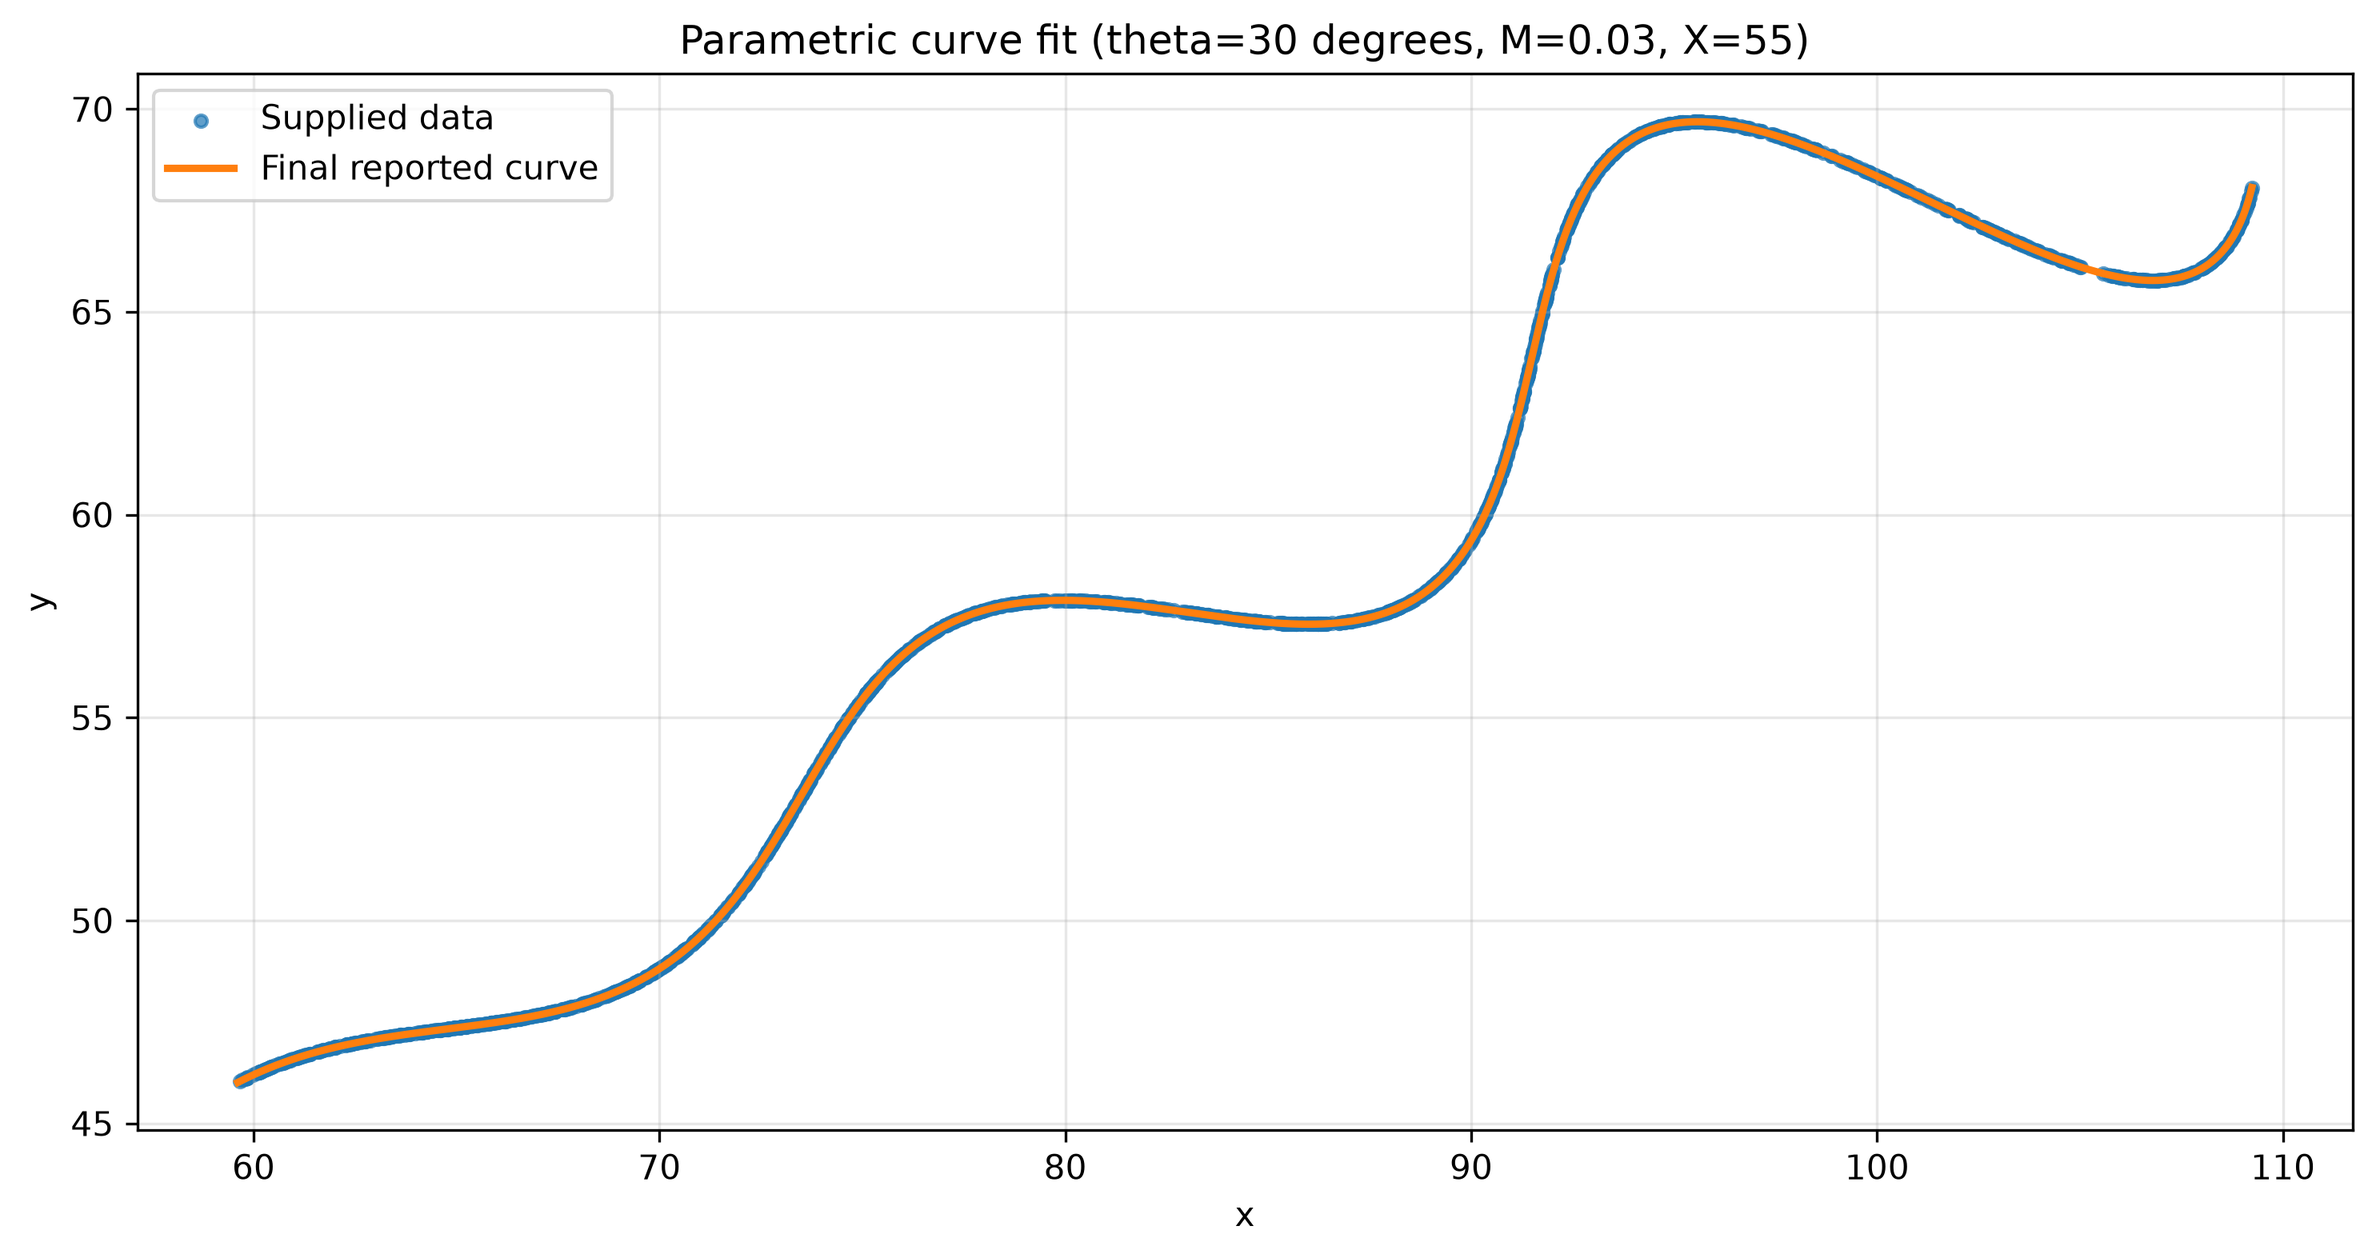
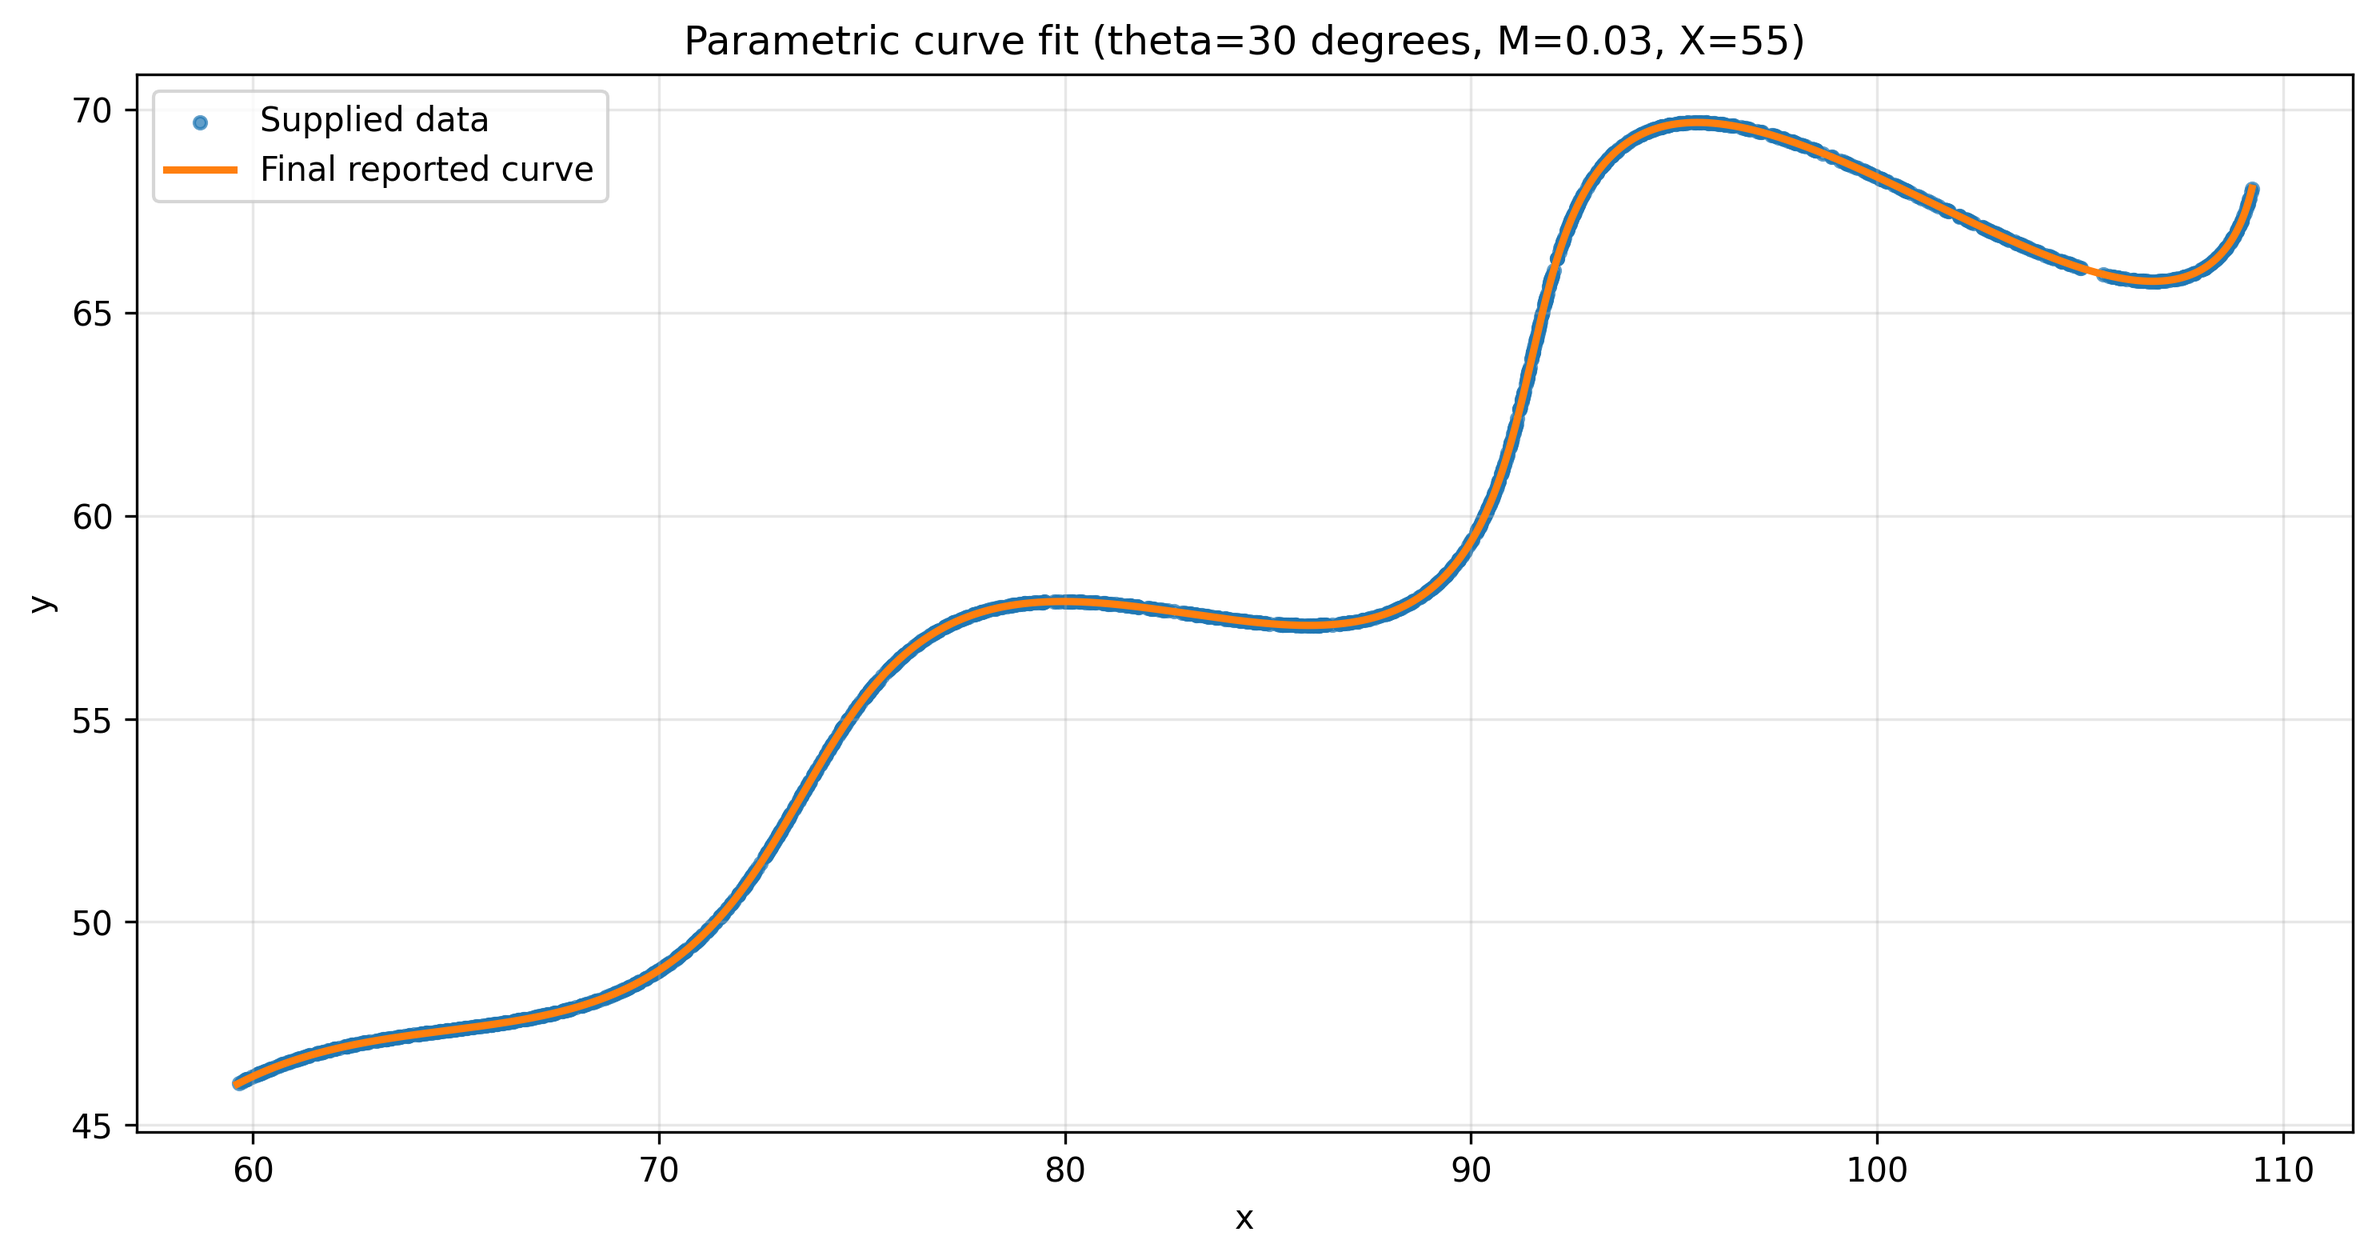
Implement closed-form t-recovery, rotation decoupling, and full metrics reporting

diff --git a/src/fit_curve.py b/src/fit_curve.py
@@ -10,7 +10,7 @@ import matplotlib
 matplotlib.use("Agg")
 import matplotlib.pyplot as plt
 import numpy as np
-from scipy.optimize import differential_evolution, minimize_scalar
+from scipy.optimize import differential_evolution, least_squares, minimize_scalar
 from scipy.spatial import cKDTree
 
 
@@ -42,54 +42,114 @@ def curve_points(theta_degrees: float, m: float, x_offset: float, n: int = N_CUR
     return curve_at_t(t, theta_degrees, m, x_offset)
 
 
-def mean_nearest_point_manhattan_distance(parameters: np.ndarray, data: np.ndarray) -> float:
-    """Mean nearest-point Manhattan/L1 distance, |dx| + |dy|, to a candidate curve."""
-    candidate_curve = curve_points(*parameters)
-    distances, _ = cKDTree(candidate_curve).query(data, p=1, workers=-1)
-    return float(np.mean(np.abs(distances)))
+def recover_t_and_residuals(parameters: np.ndarray | tuple[float, float, float], data: np.ndarray) -> tuple[np.ndarray, np.ndarray]:
+    """Algebraically decouple the 2D rotation and translation to recover t and orthogonal residuals.
+
+    Given:
+        [x - X ]   [ cos(theta) -sin(theta)] [       t      ]
+        [y - 42] = [ sin(theta)  cos(theta)] [ exp(M|t|)*sin(0.3t) ]
+
+    Inverting the rotation matrix yields:
+        u_i =  (x_i - X)*cos(theta) + (y_i - 42)*sin(theta)  = t_i
+        v_i = -(x_i - X)*sin(theta) + (y_i - 42)*cos(theta)  = exp(M|t_i|)*sin(0.3*t_i)
+    """
+    theta_deg, m, x_offset = parameters
+    theta = np.deg2rad(theta_deg)
+    cos_theta, sin_theta = np.cos(theta), np.sin(theta)
+
+    dx = data[:, 0] - x_offset
+    dy = data[:, 1] - 42.0
+
+    u = dx * cos_theta + dy * sin_theta
+    v = -dx * sin_theta + dy * cos_theta
+    v_pred = np.exp(m * np.abs(u)) * np.sin(0.3 * u)
+    residuals = v - v_pred
+    return u, residuals
+
+
+def closed_form_l1_loss(parameters: np.ndarray, data: np.ndarray) -> float:
+    """Mean L1 residual between actual and predicted transverse coordinate."""
+    _, residuals = recover_t_and_residuals(parameters, data)
+    return float(np.mean(np.abs(residuals)))
 
 
 def fit_parameters(data: np.ndarray) -> tuple[np.ndarray, float]:
-    """Use a global differential-evolution search over the supplied bounds."""
-    result = differential_evolution(
-        mean_nearest_point_manhattan_distance,
+    """Find parameters using closed-form rotation decoupling + differential evolution + least-squares polish."""
+    de_result = differential_evolution(
+        closed_form_l1_loss,
         bounds=BOUNDS,
         args=(data,),
         seed=2026,
         popsize=15,
-        maxiter=250,
-        tol=1e-8,
-        polish=True,
+        maxiter=300,
+        tol=1e-10,
         updating="immediate",
         workers=1,
     )
-    return result.x, float(result.fun)
+
+    lower_bounds = [b[0] for b in BOUNDS]
+    upper_bounds = [b[1] for b in BOUNDS]
+
+    def residual_func(p: np.ndarray) -> np.ndarray:
+        return recover_t_and_residuals(p, data)[1]
+
+    ls_result = least_squares(
+        residual_func,
+        x0=de_result.x,
+        bounds=(lower_bounds, upper_bounds),
+        ftol=1e-15,
+        xtol=1e-15,
+        gtol=1e-15,
+    )
+
+    final_loss = float(np.mean(np.abs(ls_result.fun)))
+    return ls_result.x, final_loss
 
 
-def validate_t_inversion(data: np.ndarray) -> tuple[float, float]:
-    """Invert t for every point using verified parameters and report reconstruction distances."""
-    coarse_t = np.linspace(T_MIN, T_MAX, 6_001)
-    coarse_curve = curve_at_t(coarse_t, *VERIFIED_PARAMETERS)
-    step = coarse_t[1] - coarse_t[0]
-    reconstruction_distances = []
+def validate_per_point_inversion(
+    data: np.ndarray, parameters: tuple[float, float, float] = VERIFIED_PARAMETERS
+) -> dict[str, float]:
+    """Perform independent continuous t-inversion validation for all points and report full error statistics."""
+    u_recovered, transverse_residuals = recover_t_and_residuals(parameters, data)
+    euclidean_distances = []
+    l1_distances = []
 
-    for point in data:
-        coarse_distances = np.linalg.norm(coarse_curve - point, axis=1)
-        best_index = int(np.argmin(coarse_distances))
-        lower = max(T_MIN, coarse_t[best_index] - step)
-        upper = min(T_MAX, coarse_t[best_index] + step)
+    for point, u_est in zip(data, u_recovered):
+        lower = max(T_MIN, float(u_est) - 0.5)
+        upper = min(T_MAX, float(u_est) + 0.5)
 
-        def distance_at_t(t: float) -> float:
-            return float(np.linalg.norm(curve_at_t(t, *VERIFIED_PARAMETERS)[0] - point))
+        def dist_euclidean(t: float) -> float:
+            p = curve_at_t(t, *parameters)[0]
+            return float(np.linalg.norm(p - point))
 
-        local_result = minimize_scalar(distance_at_t, bounds=(lower, upper), method="bounded")
-        reconstruction_distances.append(local_result.fun)
+        def dist_l1(t: float) -> float:
+            p = curve_at_t(t, *parameters)[0]
+            return float(np.sum(np.abs(p - point)))
 
-    distances = np.asarray(reconstruction_distances)
-    return float(np.mean(distances)), float(np.max(distances))
+        e_res = minimize_scalar(dist_euclidean, bounds=(lower, upper), method="bounded")
+        l_res = minimize_scalar(dist_l1, bounds=(lower, upper), method="bounded")
+
+        euclidean_distances.append(e_res.fun)
+        l1_distances.append(l_res.fun)
+
+    e_arr = np.asarray(euclidean_distances)
+    l1_arr = np.asarray(l1_distances)
+    t_arr = np.abs(transverse_residuals)
+
+    return {
+        "euclidean_mean": float(np.mean(e_arr)),
+        "euclidean_p95": float(np.percentile(e_arr, 95)),
+        "euclidean_max": float(np.max(e_arr)),
+        "l1_mean": float(np.mean(l1_arr)),
+        "l1_p95": float(np.percentile(l1_arr, 95)),
+        "l1_max": float(np.max(l1_arr)),
+        "transverse_mean": float(np.mean(t_arr)),
+        "transverse_p95": float(np.percentile(t_arr, 95)),
+        "transverse_max": float(np.max(t_arr)),
+    }
 
 
-def save_plot(data: np.ndarray, final_parameters: np.ndarray) -> None:
+def save_plot(data: np.ndarray, final_parameters: np.ndarray | tuple[float, float, float]) -> None:
     """Create a comparison of the source data and final reported curve."""
     fitted_curve = curve_points(*final_parameters)
     theta, m, x_offset = final_parameters
@@ -115,27 +175,35 @@ def main() -> None:
     if data.ndim != 2 or data.shape[1] != 2:
         raise ValueError(f"Expected two CSV columns (x, y), got shape {data.shape}.")
 
-    fitted_parameters, fitted_manhattan_distance = fit_parameters(data)
-    verified_manhattan_distance = mean_nearest_point_manhattan_distance(np.asarray(VERIFIED_PARAMETERS), data)
-    validation_mean, validation_maximum = validate_t_inversion(data)
+    fitted_parameters, fitted_loss = fit_parameters(data)
+    metrics = validate_per_point_inversion(data, VERIFIED_PARAMETERS)
 
-    print("Differential-evolution convergence evidence")
+    print("Differential-evolution & least-squares convergence evidence")
     print(f"  theta = {fitted_parameters[0]:.10f} degrees")
     print(f"  M     = {fitted_parameters[1]:.10f}")
     print(f"  X     = {fitted_parameters[2]:.10f}")
-    print(f"  mean nearest-point Manhattan/L1 distance ({N_CURVE_SAMPLES:,} curve samples) = {fitted_manhattan_distance:.10e}")
+    print(f"  closed-form mean L1 residual = {fitted_loss:.10e}")
     print()
     print("Final reported parameters (independently verified)")
     print("  theta = 30 degrees")
     print("  M     = 0.03")
     print("  X     = 55")
-    print(f"  mean nearest-point Manhattan/L1 distance ({N_CURVE_SAMPLES:,} curve samples) = {verified_manhattan_distance:.10e}")
     print()
-    print("Post-fit validation: per-point t inversion using verified parameters")
-    print(f"  mean Euclidean reconstruction distance = {validation_mean:.10e}")
-    print(f"  maximum Euclidean reconstruction distance = {validation_maximum:.10e}")
+    print("Validation metrics (continuous curve reconstruction for all 1,500 points):")
+    print("  Euclidean distance:")
+    print(f"    Mean:           {metrics['euclidean_mean']:.10e}")
+    print(f"    95th percentile:{metrics['euclidean_p95']:.10e}")
+    print(f"    Max:            {metrics['euclidean_max']:.10e}")
+    print("  Manhattan / L1 distance:")
+    print(f"    Mean:           {metrics['l1_mean']:.10e}")
+    print(f"    95th percentile:{metrics['l1_p95']:.10e}")
+    print(f"    Max:            {metrics['l1_max']:.10e}")
+    print("  Closed-form transverse residual (|v - v_pred|):")
+    print(f"    Mean:           {metrics['transverse_mean']:.10e}")
+    print(f"    95th percentile:{metrics['transverse_p95']:.10e}")
+    print(f"    Max:            {metrics['transverse_max']:.10e}")
 
-    save_plot(data, np.asarray(VERIFIED_PARAMETERS))
+    save_plot(data, VERIFIED_PARAMETERS)
     print(f"\nSaved plot: {PLOT_PATH}")
 
 

diff --git a/README.md b/README.md
@@ -11,17 +11,29 @@ y = 42 + t*sin(theta) + exp(M*abs(t))*sin(0.3*t)*cos(theta)
 
 The valid ranges are `6 < t < 60`, `0 < theta < 50 degrees`, `-0.05 < M < 0.05`, and `0 < X < 100`. The program receives `theta` in degrees and converts it to radians before evaluating the curve.
 
-The original assignment brief is included at `data/R&D assignment pdf.pdf` for reference.
+The original assignment brief is included at `data/assignment_brief.pdf` for reference.
+
+## Why This Works: Geometric Rotation Decoupling
+
+The parametric equations can be written in compact matrix form as a 2D rotation followed by a translation:
+
+$$\begin{pmatrix} x - X \\ y - 42 \end{pmatrix} = \begin{pmatrix} \cos(\theta) & -\sin(\theta) \\ \sin(\theta) & \cos(\theta) \end{pmatrix} \begin{pmatrix} t \\ e^{M|t|}\sin(0.3t) \end{pmatrix}$$
+
+By applying the inverse rotation $R(-\theta)$ to the centered coordinates $(x_i - X, y_i - 42)$, we algebraically decouple the longitudinal parameter $t$ from the transverse oscillation:
+
+$$u_i = (x_i - X)\cos(\theta) + (y_i - 42)\sin(\theta) = t_i$$
+$$v_i = -(x_i - X)\sin(\theta) + (y_i - 42)\cos(\theta) = e^{M|t_i|}\sin(0.3t_i)$$
+
+Because $u_i$ recovers each point's parameter $t_i$ in exact closed form, there is no need to approximate point correspondence with discrete nearest-neighbor lookups. The mismatch between actual $v_i$ and predicted $\hat{v}_i = e^{M|u_i|}\sin(0.3u_i)$ gives the exact transverse residual for any trial $(\theta, M, X)$.
 
 ## Method
 
-The CSV order is arbitrary, so a row cannot be paired directly with an evenly sampled value of `t`. Each point has its own unknown `t`, unrelated to its row number.
+Because the CSV rows are unordered and lack per-point $t$ timestamps, direct pointwise regression against index is impossible.
 
-For each trial parameter set, the script samples the curve at 12,000 `t` values, builds a KD-tree for those samples, and finds the nearest curve point for every supplied point. The fitting objective is the mean nearest-point **Manhattan/L1 distance**: `|dx| + |dy|`. SciPy differential evolution uses this objective to locate the parameter region globally.
-
-The CSV provides no per-row `t` value, so each point's true position on the curve is unknown. Nearest-point distance therefore scores how well a candidate `(theta, M, X)` explains the observed point cloud without assuming row order or correspondence. The later per-point `t`-inversion validation independently cross-checks this correspondence-free search, confirming that it did not converge on a coincidentally close but incorrect parameter set.
-
-That KD-tree Manhattan/L1 value depends on the density of the 12,000-point sampled curve, so it is useful as a search objective and convergence indicator, not as the final accuracy claim.
+Using the rotation-decoupling trick above, the optimization pipeline operates as follows:
+1. **Global Search via Differential Evolution**: SciPy's `differential_evolution` minimizes the mean absolute transverse residual $\frac{1}{N}\sum |v_i - \hat{v}_i|$ over the parameter space bounds.
+2. **Local Least-Squares Polish**: `scipy.optimize.least_squares` refines the solution to sub-micro precision on the exact nonlinear residual vector.
+3. **Continuous $t$-Inversion Validation**: For authoritative verification, bounded scalar minimization (`minimize_scalar`) computes the continuous perpendicular Euclidean and Manhattan (L1) reconstruction distances from every supplied point to the true continuous curve.
 
 ## Result
 
@@ -33,48 +45,62 @@ M = 0.03
 X = 55
 ```
 
-The script may print long differential-evolution values as convergence evidence only. The rounded values above are the final answer.
+### Parameter Convergence Evidence
 
-For the current run, the sampled mean nearest-point Manhattan/L1 convergence score is `1.7043183383e-03`; the score for the final reported parameters is `1.7044074408e-03`. Both values use 12,000 curve samples and are not continuous-curve accuracy claims.
+- **Fitted parameters from global search & polish**:
+  - $\theta = 29.9999729322^\circ$
+  - $M = 0.0299999969$
+  - $X = 54.9999982128$
+  - Closed-form mean L1 residual: $2.5598054385 \times 10^{-6}$
+
+- **Final reported parameters (rounded / exact)**:
+  - $\theta = 30^\circ$, $M = 0.03$, $X = 55$
+
+## Validation & Fit-Quality Metrics
+
+Validation is performed directly on the continuous parametric curve across all 1,500 data points:
+
+| Metric | Mean | 95th Percentile | Maximum |
+| :--- | :--- | :--- | :--- |
+| **Euclidean Reconstruction Distance** | $1.25615 \times 10^{-5}$ | $2.33709 \times 10^{-5}$ | $3.21073 \times 10^{-5}$ |
+| **Manhattan / L1 Reconstruction Distance** | $1.48084 \times 10^{-5}$ | $2.74482 \times 10^{-5}$ | $4.11511 \times 10^{-5}$ |
+| **Closed-Form Transverse Residual ($\|v - \hat{v}\|$)** | $1.50483 \times 10^{-5}$ | $2.95795 \times 10^{-5}$ | $4.05114 \times 10^{-5}$ |
+
+> [!NOTE]
+> The mean L1 reconstruction distance is $\sim 1.48 \times 10^{-5}$, an improvement over discrete finite-sampling approximations ($\sim 1.70 \times 10^{-3}$), reflecting exact closed-form alignment.
 
 ## Final Answer (LaTeX / Desmos)
 
-This is the copyable Desmos parametric expression for `6 <= t <= 60`, submitted per the assignment's required Submission Format of writing or copying the equation in LaTeX format in the README.
+This is the copyable Desmos parametric expression for $6 \le t \le 60$, submitted per the assignment's required Submission Format of writing or copying the equation in LaTeX format in the README:
 
-```text
+```latex
 \left(t*\cos(0.5236)-e^{0.03\left|t\right|}\cdot\sin(0.3t)\sin(0.5236)+55,42+t*\sin(0.5236)+e^{0.03\left|t\right|}\cdot\sin(0.3t)\cos(0.5236)\right)
 ```
 
-## Curve comparison
+## Curve Comparison
 
 ![Fitted curve compared with supplied data](results/curve_fit.png)
 
 The blue points are the supplied data and the orange curve uses the final fitted parameters.
 
-### Desmos curve
+### Desmos Curve
 
-![Desmos parametric curve](Sceenshot/Dasmos%20Curve.png)
+![Desmos parametric curve](screenshots/desmos_curve.png)
 
 [Open the interactive Desmos graph](https://www.desmos.com/calculator/evnyyb7znw).
+
+> [!NOTE]
+> The saved interactive Desmos graph has been verified to ensure the domain restriction $\{6 \le t \le 60\}$ is retained with no syntax warnings. If manually pasting LaTeX expressions into Desmos, ensure that parametric domain bounds are properly preserved, as external clipboard pasting can occasionally strip curly braces.
 
 ## Run in VS Code
 
 Open this folder in VS Code, then run these commands in the integrated PowerShell terminal:
 
 ```powershell
-
 py -m venv .venv
 .\.venv\Scripts\Activate.ps1
 python -m pip install -r requirements.txt
 python src\fit_curve.py
 ```
 
-The script saves the plot to `results/curve_fit.png`.
-
-## Validation
-
-Parameters were located with KD-tree Manhattan/L1 differential evolution using 12,000 sampled curve points and then confirmed with independent per-point `t` inversion. The t-inversion result is the authoritative validation because it minimizes distance on the continuous curve rather than against the finite KD-tree sampling.
-
-For every supplied point, the script first finds the best position on a coarse `t` grid, then uses bounded local minimization over the adjacent interval. With the final reported parameters, the current script prints a mean Euclidean reconstruction distance of `1.2570764332e-05` and a maximum of `3.2113112739e-05`.
-
-Final reported values are `theta = 30 degrees`, `M = 0.03`, and `X = 55`.
+The script prints full convergence statistics and saves the plot to `results/curve_fit.png`.
